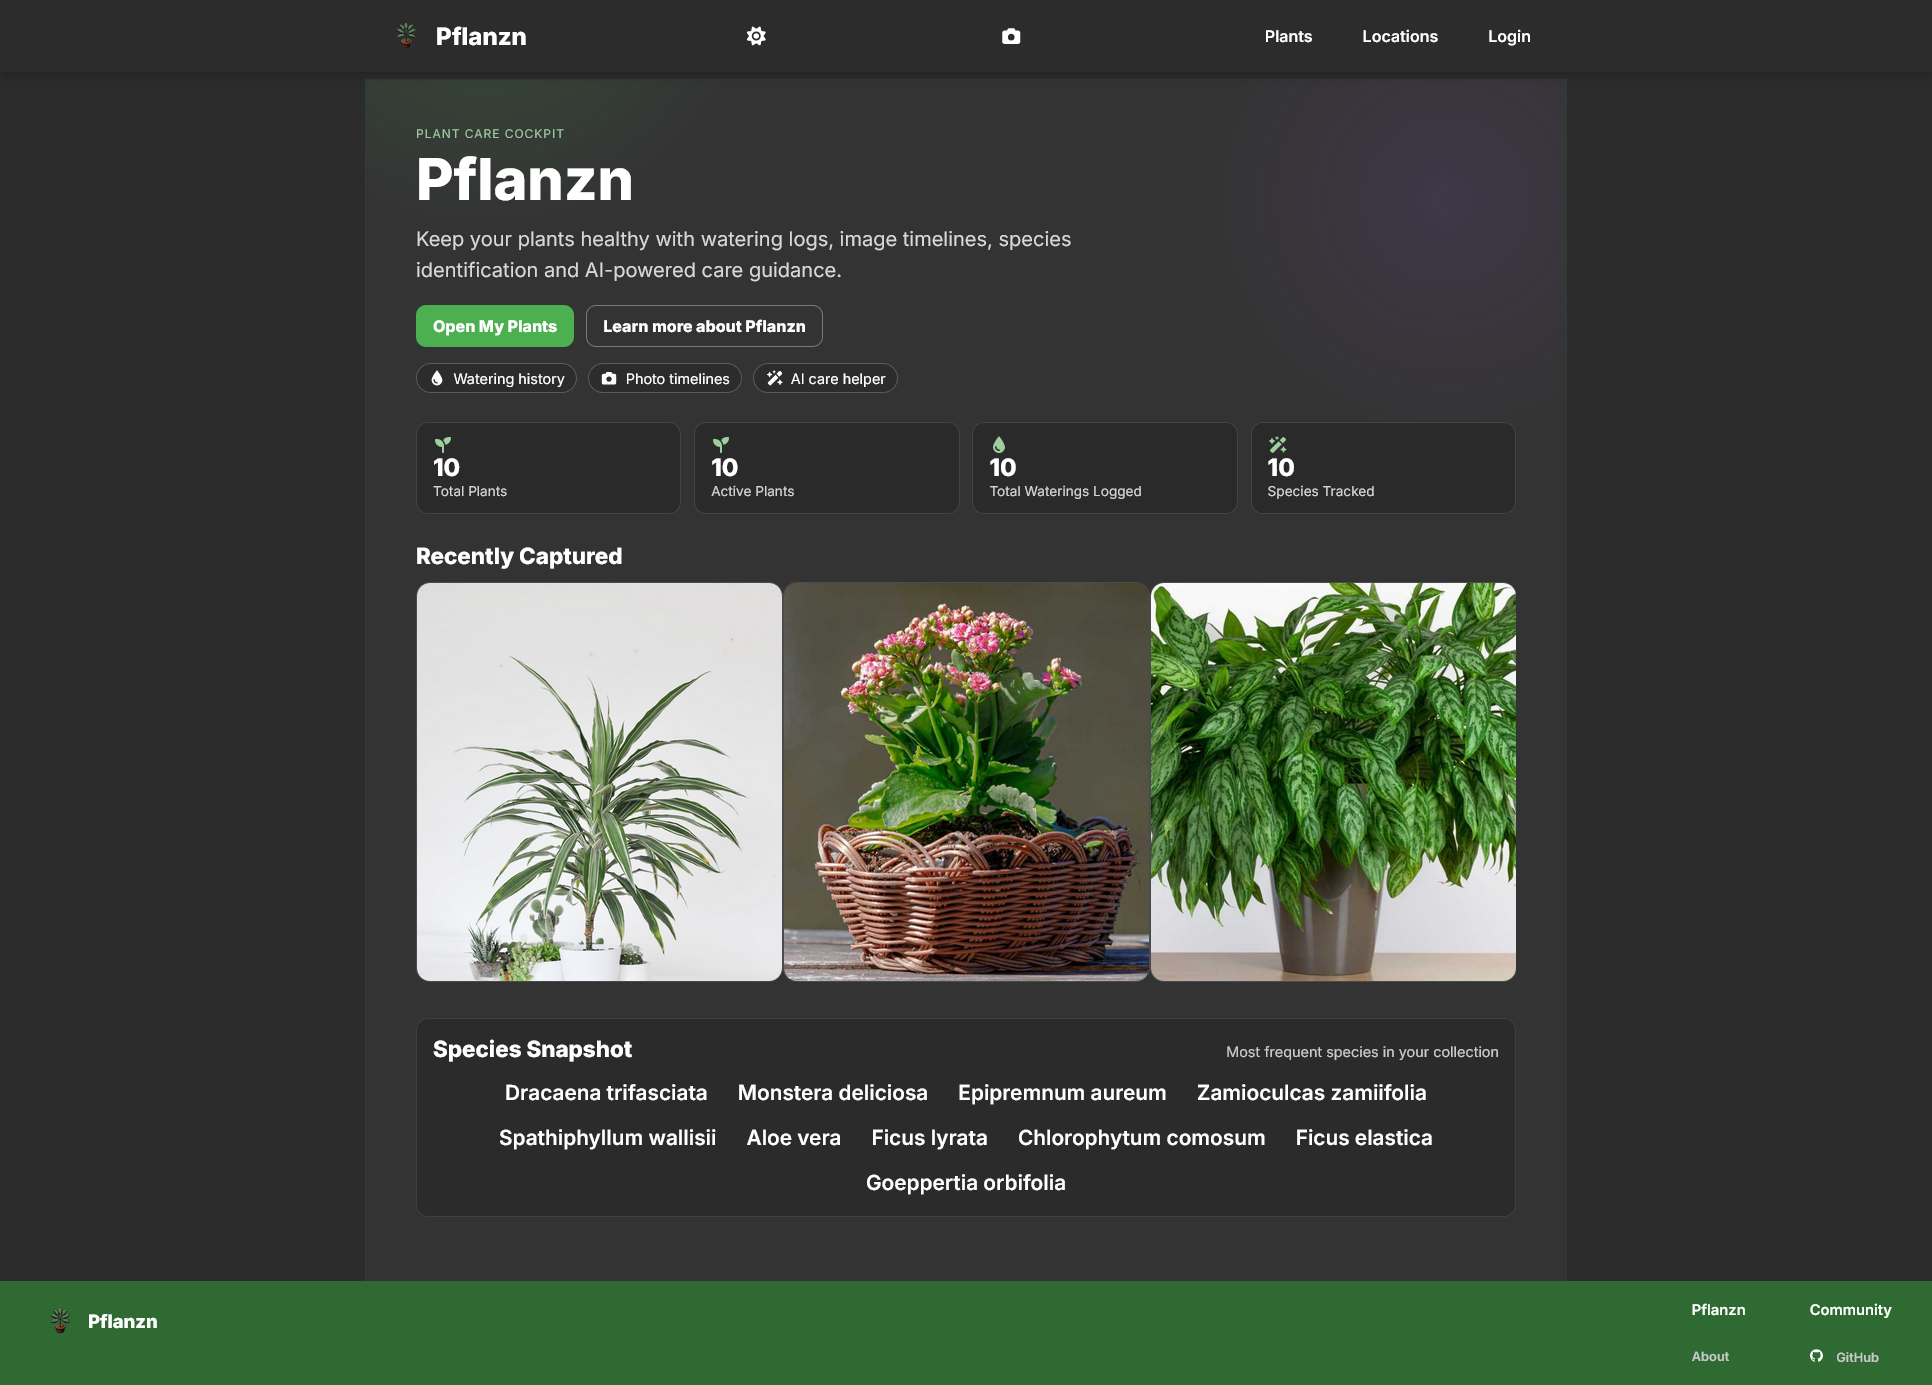
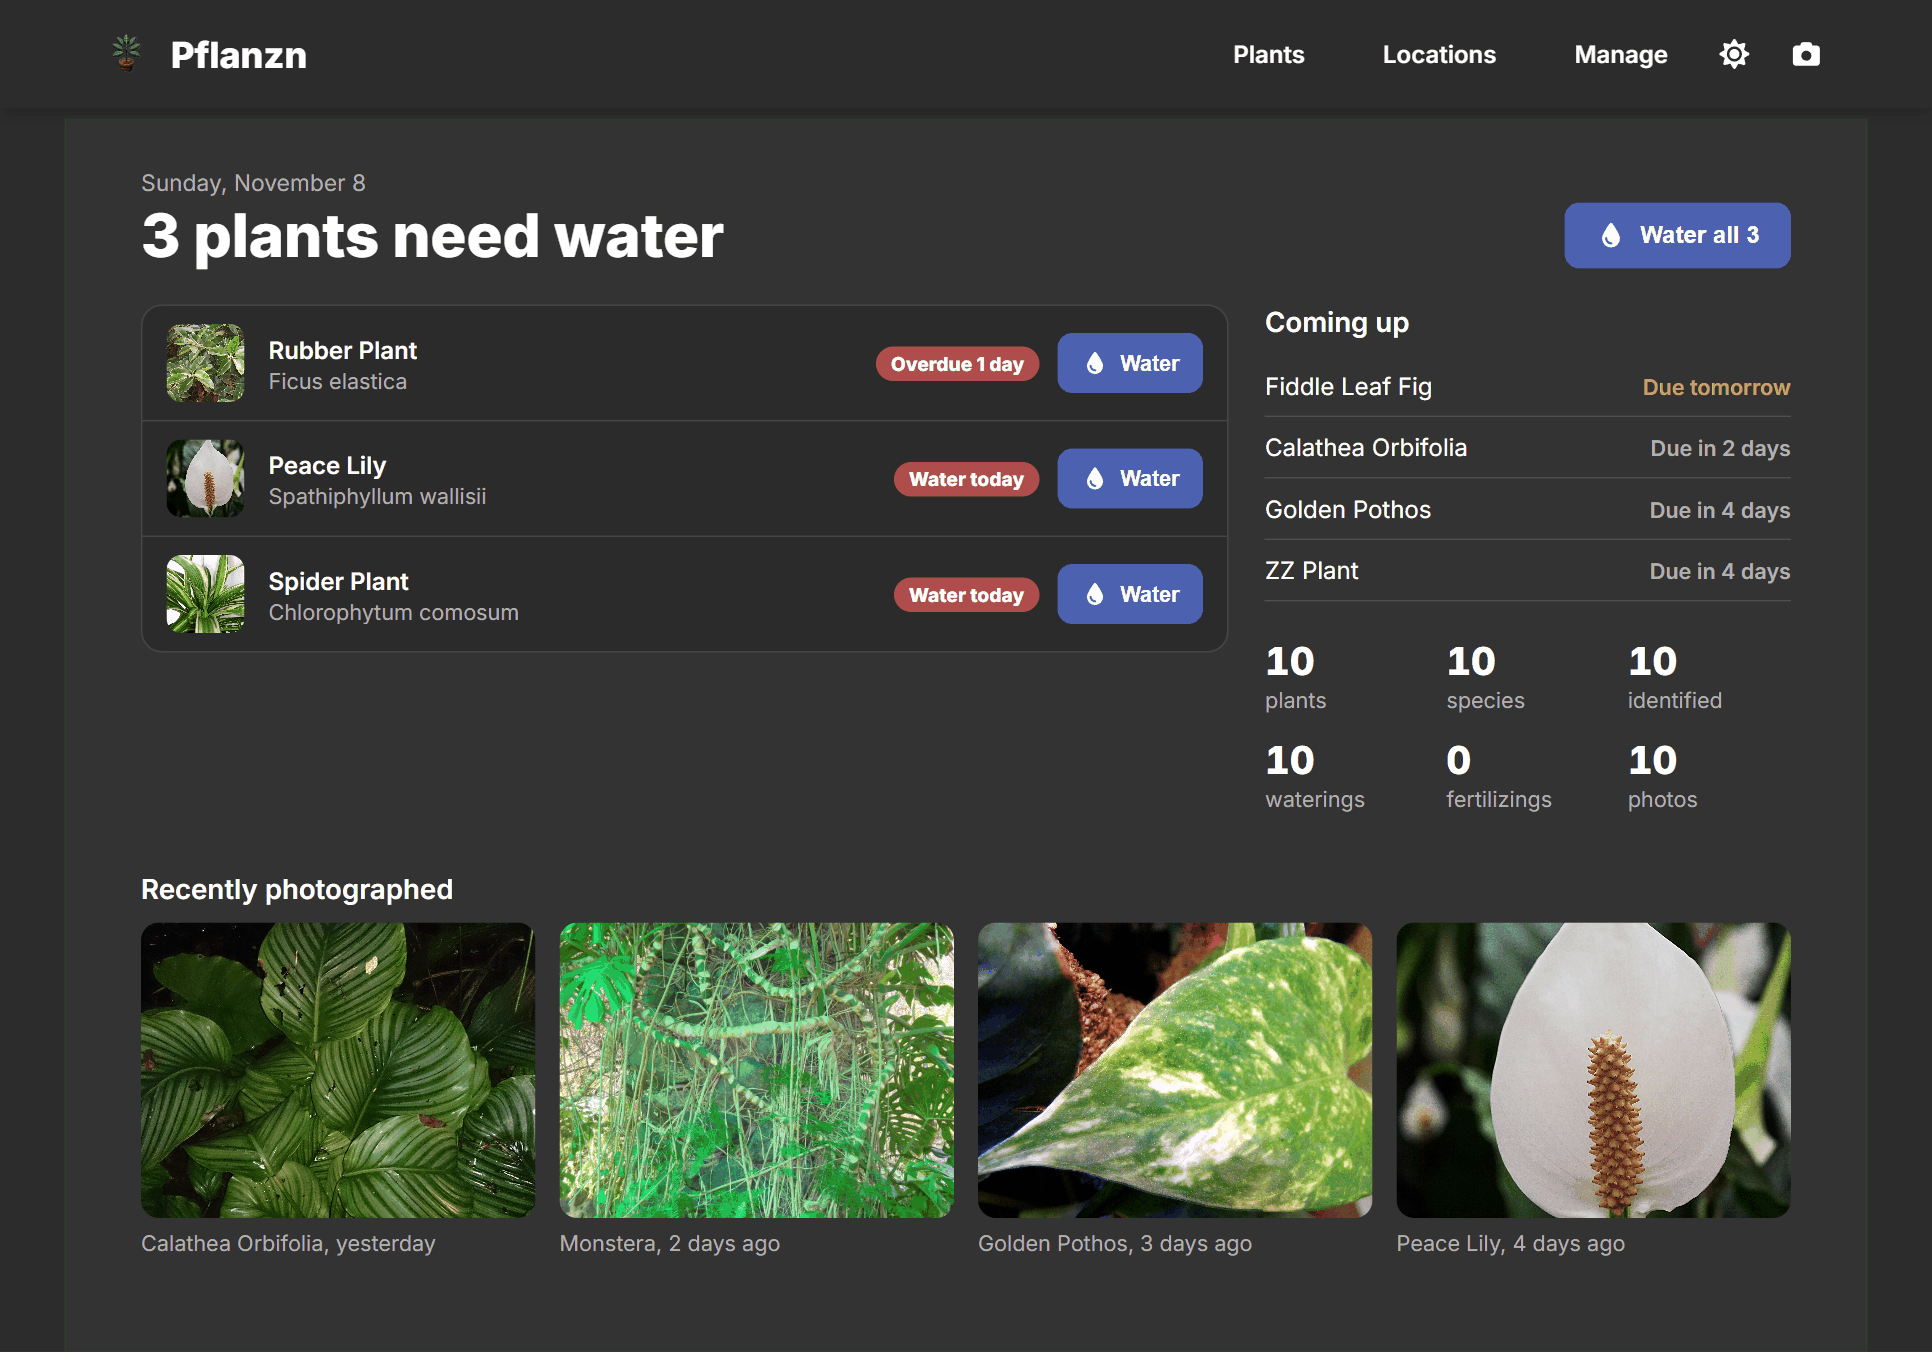
docs: new README screenshots of the 2.0 design
Taken from the public demo (pflanzn.app): home, plants list and plant page on desktop, plants list and plant page on a phone. The identification dialog screenshot is still current and stays.

diff --git a/README.md b/README.md
@@ -19,30 +19,35 @@
 ---
 
 <p align="center">
-  <img src="./docs/images/pflanzn-home.png" alt="Pflanzn home — recently captured plants, species snapshot, and overall counts" width="100%" />
+  <img src="./docs/images/pflanzn-home.png" alt="Pflanzn home — the plants that need water today with a Water button each, what comes up next, collection figures and the latest photos" width="100%" />
 </p>
 
 <details>
-<summary><strong>More screenshots</strong> — plants list, plant detail, identification</summary>
+<summary><strong>More screenshots</strong> — plants list, plant page, phone, identification</summary>
 
 <br/>
 
 <table>
   <tr>
-    <td width="50%"><img src="./docs/images/pflanzn-plants.png" alt="Plants list with thumbnails and tags" /></td>
-    <td width="50%"><img src="./docs/images/pflanzn-plant.png" alt="Plant detail with timeline and care advice" /></td>
+    <td width="50%"><img src="./docs/images/pflanzn-plants.png" alt="Plants list: photo cards with watering status and water, photo and identify buttons" /></td>
+    <td width="50%"><img src="./docs/images/pflanzn-plant.png" alt="Plant page: watering status, Water now, Fertilize, Add photo and More, photo timeline and activity feed" /></td>
   </tr>
   <tr>
     <td align="center"><sub>Plants list</sub></td>
-    <td align="center"><sub>Plant detail · timeline</sub></td>
+    <td align="center"><sub>Plant page</sub></td>
+  </tr>
+</table>
+
+<table>
+  <tr>
+    <td width="33%"><img src="./docs/images/pflanzn-mobile-plants.png" alt="Plants list on a phone: two columns with a bottom navigation" /></td>
+    <td width="33%"><img src="./docs/images/pflanzn-mobile-plant.png" alt="Plant page on a phone: the actions sit under the photo" /></td>
+    <td width="33%"><img src="./docs/images/planzn-identification.png" alt="Species identification via Pl@ntNet" /></td>
   </tr>
   <tr>
-    <td width="50%"><img src="./docs/images/planzn-identification.png" alt="Species identification via PlantNet" /></td>
-    <td width="50%"></td>
-  </tr>
-  <tr>
+    <td align="center"><sub>Phone · plants</sub></td>
+    <td align="center"><sub>Phone · plant page</sub></td>
     <td align="center"><sub>Species identification</sub></td>
-    <td></td>
   </tr>
 </table>
 
